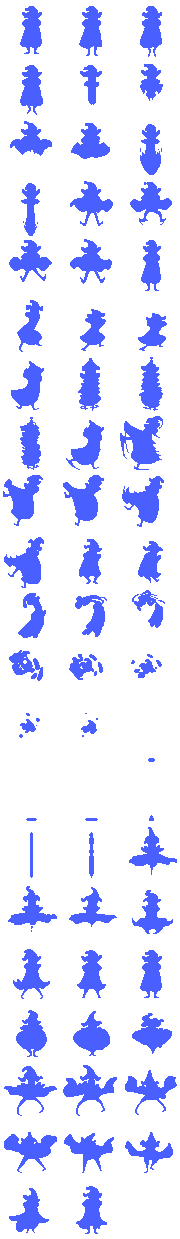
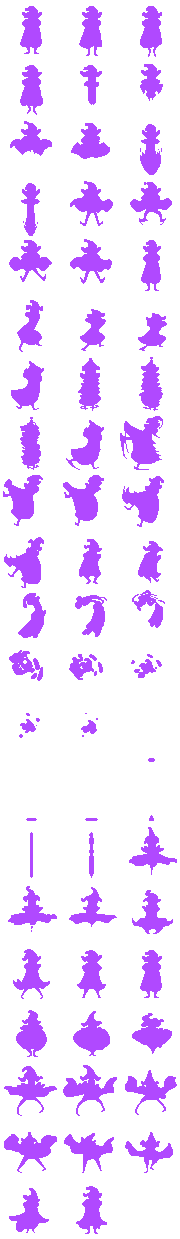
More MJW

diff --git a/NPCs/Boss/MoonWizardTwo/AzureGemProj.cs b/NPCs/Boss/MoonWizardTwo/AzureGemProj.cs
@@ -1,0 +1,121 @@
+using Microsoft.Xna.Framework;
+using Microsoft.Xna.Framework.Graphics;
+using System;
+using Terraria;
+using SpiritMod.Buffs;
+using Terraria.ID;
+using Terraria.ModLoader;
+using SpiritMod.Items.BossBags;
+using SpiritMod.NPCs.Boss.MoonWizardTwo.Projectiles;
+using SpiritMod.Prim;
+using SpiritMod.Utilities;
+
+namespace SpiritMod.NPCs.Boss.MoonWizardTwo
+{
+	public class AzureGemProj : ModNPC
+	{
+		private const int ROTATETIME = 90;
+		private const float ROTATEEXPAND = 1;
+		private const float ROTATESPEED = 0.1f;
+		private const int FIRINGSPEED = 50;
+		private const int BURSTTIME = 299;
+
+		private int counter;
+		private float radius;
+		private Vector2 posToBe = Vector2.Zero;
+		public override void SetStaticDefaults()
+		{
+			DisplayName.SetDefault("Azure Gem");
+			Main.npcFrameCount[npc.type] = 3;
+		}
+		
+		public override void SetDefaults()
+		{
+			npc.friendly = false;
+			npc.lifeMax = 250;
+			npc.defense = 20;
+			npc.value = 0;
+			npc.aiStyle = -1;
+            npc.knockBackResist = 0f;
+			npc.width = 24;
+			npc.height = 50;
+			npc.damage = 0;
+			npc.lavaImmune = true;
+            npc.noGravity = true;
+			npc.noTileCollide = true;
+			npc.HitSound = SoundID.NPCHit13;
+			npc.DeathSound = SoundID.NPCDeath2;
+		}
+		public override void AI()
+		{
+			NPC parent = Main.npc[(int)npc.ai[0]];
+			Player player = Main.player[parent.target];
+			counter++;
+			if (counter < ROTATETIME)
+			{
+				npc.ai[1] += ROTATESPEED;
+				radius += ROTATEEXPAND;
+				npc.Center = (parent.Center - new Vector2(0, 30)) + (npc.ai[1].ToRotationVector2() * radius);
+			}
+			if (counter == ROTATETIME)
+			{
+				int distance = Main.rand.Next(300, 500);
+				bool spotPicked = false;
+				while (!spotPicked)
+				{
+					npc.ai[3] = Main.rand.Next(360);
+					double anglex = Math.Sin(npc.ai[3] * (Math.PI / 180));
+					double angley = Math.Cos(npc.ai[3] * (Math.PI / 180));
+					posToBe.X = player.Center.X + (int)(distance * anglex);
+					posToBe.Y = player.Center.Y + (int)(distance * angley);
+					if (!Main.tile[(int)(posToBe.X / 16), (int)(posToBe.Y / 16)].active() && !Main.tile[(int)(posToBe.X / 16), (int)(posToBe.Y / 16)].active())
+					{
+						spotPicked = true;
+					}
+					npc.netUpdate = true;
+				}
+			}
+			if (counter > ROTATETIME)
+			{
+				Vector2 direction = posToBe - npc.Center;
+				float speed = (float)Math.Sqrt(direction.Length());
+				direction.Normalize();
+				npc.velocity = direction * speed;
+				if (speed < 2)
+				{
+					npc.Center = posToBe;
+					npc.velocity = Vector2.Zero;
+					if (counter % FIRINGSPEED == 0)
+					{
+						Vector2 launchDirection = player.Center - npc.Center;
+						launchDirection.Normalize();
+						launchDirection = launchDirection.RotatedBy(Main.rand.NextFloat(-0.5f, 0.5f));
+						launchDirection *= 10;
+						Projectile.NewProjectile(npc.Center, launchDirection, ModContent.ProjectileType<AzureJelly>(), 35, 4, 255, player.whoAmI);
+					}
+				}
+			}
+			if (counter > ROTATETIME + BURSTTIME)
+			{
+				for (int i = 0; i < 8; i++)
+				{
+					Vector2 launchDirection = player.Center - npc.Center;
+					launchDirection.Normalize();
+					launchDirection = launchDirection.RotatedBy(Main.rand.NextFloat(-0.5f, 0.5f));
+					launchDirection *= 15;
+					Projectile.NewProjectile(npc.Center, launchDirection, ModContent.ProjectileType<AzureJelly>(), 35, 4, 255, player.whoAmI);
+				}
+				npc.active = false;
+			}
+		}
+		public override Color? GetAlpha(Color lightColor)
+		{
+			return Color.White;
+		}
+		public override void FindFrame(int frameHeight)
+		{
+			npc.frameCounter += 0.15f;
+			npc.frame.Y = frameHeight * ((int)npc.frameCounter % Main.npcFrameCount[npc.type]);
+		}
+	}
+}

diff --git a/NPCs/Boss/MoonWizardTwo/MoonWizardTwo.cs b/NPCs/Boss/MoonWizardTwo/MoonWizardTwo.cs
@@ -33,17 +33,18 @@ namespace SpiritMod.NPCs.Boss.MoonWizardTwo
 		private float dashDistance = 0f;
 		private Projectile currentProjectile;
 
-		const int NUMBEROFATTACKS = 8;
+		const int NUMBEROFATTACKS = 9;
 		private enum CurrentAttack
 		{
 			InwardPull = 0,
 			SineBalls = 1,
 			SkyStrikes = 2,
 			DashToPlayer = 3,
-			CloneAttack = 4,
-			DashToPlayerAgain = 5,
-			SmallBubbles = 6,
-			BubbleKick = 7,
+			CreateGems = 4,
+			CloneAttack = 5,
+			DashToPlayerAgain = 6,
+			SmallBubbles = 7,
+			BubbleKick = 8,
 		}
 		private CurrentAttack currentAttack
 		{
@@ -167,10 +168,7 @@ namespace SpiritMod.NPCs.Boss.MoonWizardTwo
 				cooldownCounter--;
 				npc.velocity = Vector2.Zero;
 				npc.rotation = 0;
-				if (phaseTwo)
-					UpdateFrame(0.15f, 54, 61);
-				else
-					UpdateFrame(0.15f, 0, 3);
+				UpdateFrame(0.15f, 0, 3);
 			}
 			else
 			{
@@ -188,6 +186,9 @@ namespace SpiritMod.NPCs.Boss.MoonWizardTwo
 						break;
 					case CurrentAttack.DashToPlayer:
 						attackStart = DoDashToPlayer(false);
+						break;
+					case CurrentAttack.CreateGems:
+						attackStart = DoCreateGems();
 						break;
 					case CurrentAttack.CloneAttack:
 						attackStart = DoCloneAttack();
@@ -256,8 +257,11 @@ namespace SpiritMod.NPCs.Boss.MoonWizardTwo
 			}
 			if (dust)
 			{
-				for (int i = 0; i < 50; i++)
+				for (int i = 0; i < 25; i++)
+				{
+					Dust.NewDustPerfect(npc.Center, 205, new Vector2(Main.rand.NextFloat(-3, 3), Main.rand.NextFloat(-6, 0)));
 					Dust.NewDustPerfect(npc.Center, 226, new Vector2(Main.rand.NextFloat(-3, 3), Main.rand.NextFloat(-6, 0)));
+				}
 			}
 		}
 
@@ -267,8 +271,9 @@ namespace SpiritMod.NPCs.Boss.MoonWizardTwo
 			Player player = Main.player[npc.target];
 			npc.Center = position;
 			npc.netUpdate = true;
-			for (int i = 0; i < 50; i++)
+			for (int i = 0; i < 25; i++)
 			{
+				Dust.NewDustPerfect(npc.Center, 205, new Vector2(Main.rand.NextFloat(-3, 3), Main.rand.NextFloat(-6, 0)));
 				Dust.NewDustPerfect(npc.Center, 226, new Vector2(Main.rand.NextFloat(-3, 3), Main.rand.NextFloat(-6, 0)));
 			}
 		}
@@ -303,7 +308,7 @@ namespace SpiritMod.NPCs.Boss.MoonWizardTwo
 			{
 				Vector2 direction = player.Center - projectileStart;
 				direction.Normalize();
-				Dust.NewDustPerfect(npc.Center + (direction.RotatedBy(Main.rand.NextFloat(-0.6f, 0.6f)) * 60), 226, direction.RotatedBy(-3.14f) * 4).noGravity = true;
+				Dust.NewDustPerfect(npc.Center + (direction.RotatedBy(Main.rand.NextFloat(-0.6f, 0.6f)) * 60), 205, direction.RotatedBy(-3.14f) * 4).noGravity = true;
 			}
 			return true;
 		}
@@ -407,6 +412,26 @@ namespace SpiritMod.NPCs.Boss.MoonWizardTwo
 			return true;
 		}
 
+		private bool DoCreateGems()
+		{
+			if (attackCounter == 45)
+			{
+				for (int i = 0; i < 3; i++)
+					NPC.NewNPC((int)npc.Center.X, (int)npc.Center.Y - 30, ModContent.NPCType<AzureGemProj>(), 0, npc.whoAmI, i * 2.094f);
+			}
+			if (attackCounter > 155)
+			{
+				UpdateFrame(0.15f, 0, 3);
+				if (attackCounter > 400)
+				{
+					npc.ai[1]++;
+					cooldownCounter = 30;
+				}
+			}
+			else
+				UpdateFrame(0.15f, 54, 61);
+			return true;
+		}
 		private bool DoCloneAttack()
 		{
 			Player player = Main.player[npc.target];

diff --git a/NPCs/Boss/MoonWizardTwo/Projectiles/AzureJelly.cs b/NPCs/Boss/MoonWizardTwo/Projectiles/AzureJelly.cs
@@ -1,0 +1,74 @@
+using Terraria.ModLoader;
+using Terraria;
+using System;
+using Microsoft.Xna.Framework;
+using Microsoft.Xna.Framework.Graphics;
+namespace SpiritMod.NPCs.Boss.MoonWizardTwo.Projectiles
+{
+	public class AzureJelly : ModProjectile
+	{
+
+		public override void SetStaticDefaults()
+		{
+			DisplayName.SetDefault("Azure Jelly");
+			Main.projFrames[projectile.type] = 5;
+		}
+
+		public override void SetDefaults()
+		{
+			projectile.aiStyle = -1;
+			projectile.width = 18;
+			projectile.height = 18;
+			projectile.friendly = false;
+			projectile.tileCollide = true;
+			projectile.hostile = true;
+			projectile.penetrate = 1;
+			projectile.timeLeft = 150;
+		}
+		
+		public override bool PreDraw(SpriteBatch spriteBatch, Color lightColor)
+        {
+			Color color = Color.Pink;
+			color.A = 0;
+            float sineAdd = (float)Math.Sin(alphaCounter) + 3;
+            SpriteEffects spriteEffects = SpriteEffects.None;
+            if (projectile.spriteDirection == 1)
+                spriteEffects = SpriteEffects.FlipHorizontally;
+            int xpos = (int)((projectile.Center.X + 10) - Main.screenPosition.X) - (int)(Main.projectileTexture[projectile.type].Width / 2);
+            int ypos = (int)((projectile.Center.Y + 10) - Main.screenPosition.Y) - (int)(Main.projectileTexture[projectile.type].Width / 2);
+            Texture2D ripple = mod.GetTexture("Effects/Masks/Extra_49");
+            Main.spriteBatch.Draw(ripple, new Vector2(xpos, ypos), new Microsoft.Xna.Framework.Rectangle?(), color, projectile.rotation, ripple.Size() / 2f, .5f, spriteEffects, 0);
+            return true;
+        }
+        public override Color? GetAlpha(Color lightColor)
+        {
+            return Color.White;
+        }
+        float alphaCounter;
+		public override void AI()
+        {
+            alphaCounter += 0.04f;
+            Lighting.AddLight(new Vector2(projectile.Center.X, projectile.Center.Y), 0.075f, 0.231f, 0.255f);
+			Player player = Main.player[(int)projectile.ai[0]];
+
+			projectile.rotation = projectile.velocity.ToRotation() + 1.57f;
+			Vector2 direction = player.Center - projectile.Center;
+			float rotDifference = ((((direction.ToRotation() - projectile.velocity.ToRotation()) % 6.28f) + 9.42f) % 6.28f) - 3.14f;
+
+			projectile.velocity = projectile.velocity.RotatedBy(Math.Sign(rotDifference) * 0.01f);
+		}
+		public override void Kill(int timeLeft)
+		{
+			Main.PlaySound(2, (int)projectile.position.X, (int)projectile.position.Y, 54);
+			for (int i = 0; i < 20; i++) {
+				int num = Dust.NewDust(projectile.position, projectile.width, projectile.height, 180, 0f, -2f, 0, default(Color), 2f);
+				Main.dust[num].noGravity = true;
+				Main.dust[num].position.X += Main.rand.Next(-50, 51) * .05f - 1.5f;
+				Main.dust[num].position.Y += Main.rand.Next(-50, 51) * .05f - 1.5f;
+				Main.dust[num].scale *= .1825f;
+				if (Main.dust[num].position != projectile.Center)
+					Main.dust[num].velocity = projectile.DirectionTo(Main.dust[num].position) * 2f;
+			}
+		}
+	}
+}

diff --git a/NPCs/Boss/MoonWizardTwo/MysticMJWClone.cs b/NPCs/Boss/MoonWizardTwo/MysticMJWClone.cs
@@ -70,7 +70,7 @@ namespace SpiritMod.NPCs.Boss.MoonWizardTwo
 				spriteEffects = SpriteEffects.FlipHorizontally;
 			Texture2D texture = Main.npcTexture[npc.type];
 			float num99 = (float)(Math.Cos((double)Main.GlobalTime % 2.40000009536743 / 2.40000009536743 * 6.28318548202515) / 4.0 + 0.5);
-			Microsoft.Xna.Framework.Color AfterimageColor = new Microsoft.Xna.Framework.Color((int)sbyte.MaxValue, (int)sbyte.MaxValue, (int)sbyte.MaxValue, 0).MultiplyRGBA(new Color(75, 231, 255, 150)) * 5f;
+			Microsoft.Xna.Framework.Color AfterimageColor = new Microsoft.Xna.Framework.Color((int)sbyte.MaxValue, (int)sbyte.MaxValue, (int)sbyte.MaxValue, 0).MultiplyRGBA(new Color(255, 0, 236, 150)) * 5f;
 			Vector2 GlowPosition = new Vector2(npc.Center.X, npc.Center.Y - 18) - Main.screenPosition - new Vector2((float)texture.Width / 3, (float)(texture.Height / Main.npcFrameCount[npc.type])) * npc.scale / 2f + npc.frame.Size() / 2 * npc.scale + new Vector2(0.0f, npc.gfxOffY);
 			for (int index2 = 0; index2 < 4; ++index2)
 			{
@@ -88,7 +88,7 @@ namespace SpiritMod.NPCs.Boss.MoonWizardTwo
 
 			SpriteEffects spriteEffects3 = (npc.spriteDirection == 1) ? SpriteEffects.FlipHorizontally : SpriteEffects.None;
 			Vector2 vector33 = new Vector2(npc.Center.X, npc.Center.Y - 18) - Main.screenPosition + new Vector2(0, npc.gfxOffY) - npc.velocity;
-			Color color29 = new Color(127 - npc.alpha, 127 - npc.alpha, 127 - npc.alpha, 0).MultiplyRGBA(Color.LightBlue);
+			Color color29 = new Color(127 - npc.alpha, 127 - npc.alpha, 127 - npc.alpha, 0).MultiplyRGBA(Color.Pink);
 			for (int num103 = 0; num103 < 4; num103++)
 			{
 				Color color28 = color29;

diff --git a/NPCs/Boss/MoonWizardTwo/Projectiles/MysticWizardBallSmall.cs b/NPCs/Boss/MoonWizardTwo/Projectiles/MysticWizardBallSmall.cs
@@ -1,4 +1,5 @@
 using System;
+using System.Linq;
 using Microsoft.Xna.Framework;
 using Microsoft.Xna.Framework.Graphics;
 using Terraria;
@@ -38,6 +39,10 @@ namespace SpiritMod.NPCs.Boss.MoonWizardTwo.Projectiles
 			{
 				projectile.scale += .06f;
 			}
+			var list = Main.projectile.Where(x => x.Hitbox.Intersects(projectile.Hitbox));
+			foreach (var proj in list)
+				if (proj.active && proj.friendly && !proj.hostile && projectile.timeLeft > 2)
+					projectile.timeLeft = 2;
 			for (int i = 0; i < Main.player.Length; i++)
 			{
 				Player player = Main.player[i];

diff --git a/NPCs/Boss/MoonWizardTwo/MJWClonePrimTrail.cs b/NPCs/Boss/MoonWizardTwo/MJWClonePrimTrail.cs
@@ -85,7 +85,7 @@ namespace SpiritMod.NPCs.Boss.MoonWizardTwo.Projectiles
         public override void OnUpdate()
         {
             PointCount = Points.Count() * 6;
-            if (!Entity.active || Destroyed || Entity.velocity != Vector2.Zero || (Entity is NPC npc && npc.modNPC is MoonWizardTwo modnpc && npc.ai[1] == 6))
+            if (!Entity.active || Destroyed || Entity.velocity != Vector2.Zero || (Entity is NPC npc && npc.modNPC is MoonWizardTwo modnpc && npc.ai[1] == 7))
             {
                 OnDestroy();
             }
